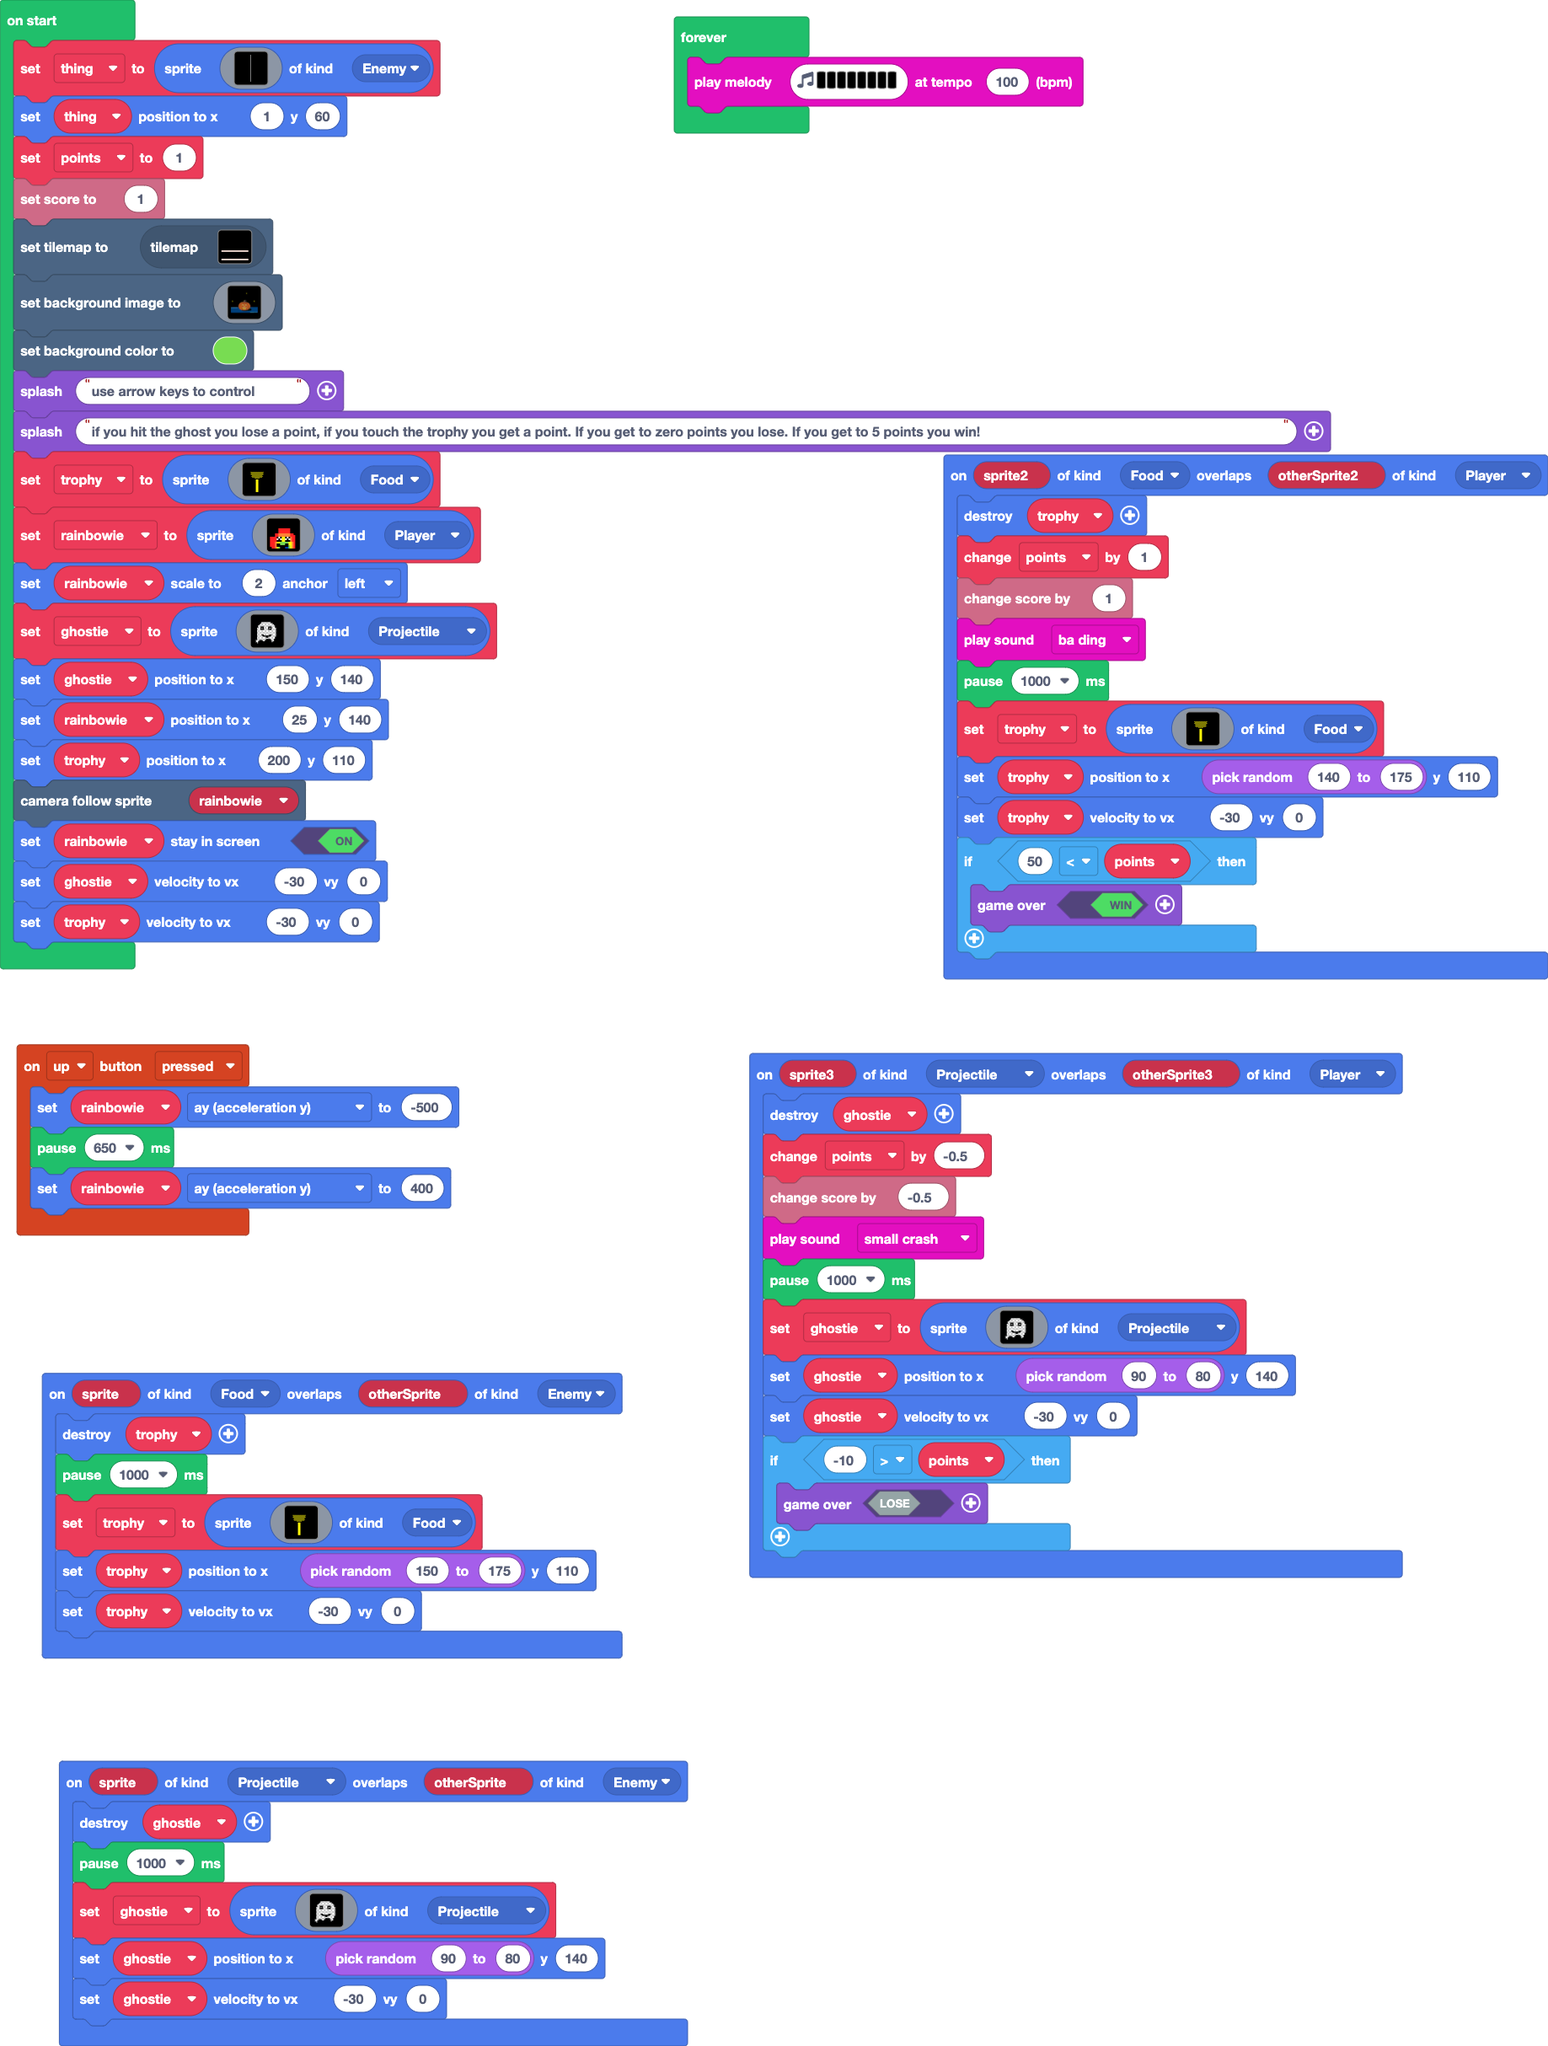
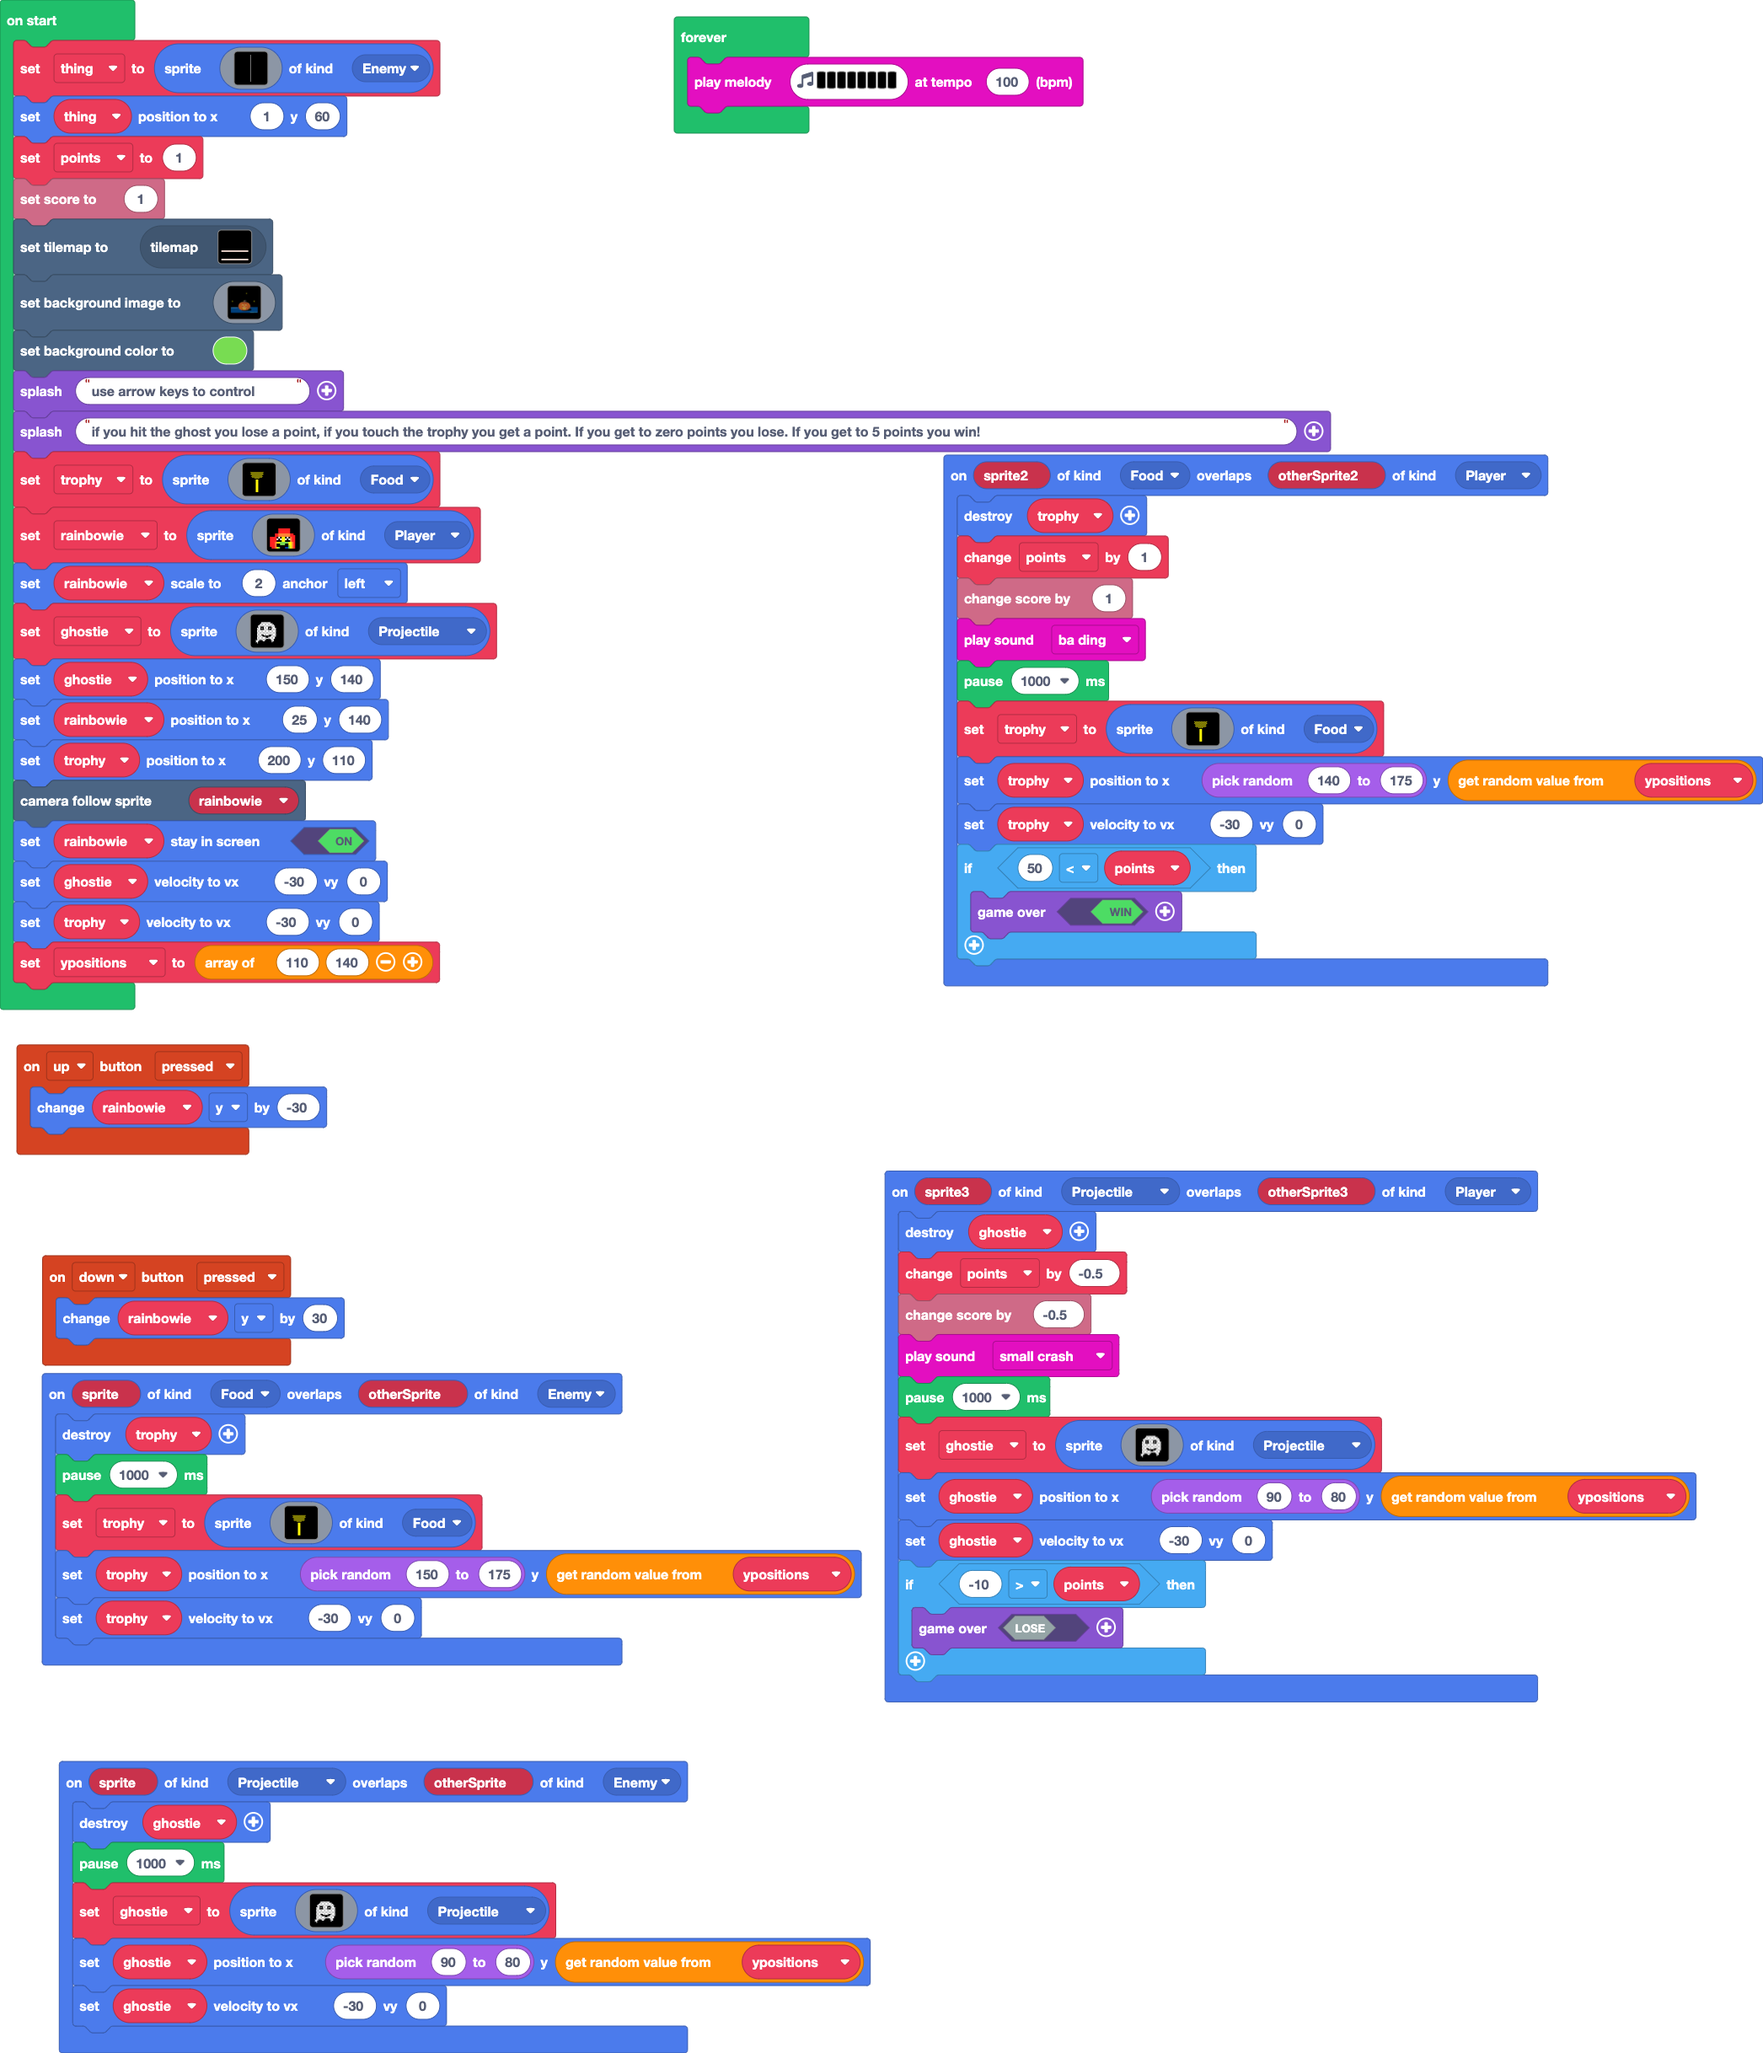
Update main.blocks, main.ts, tilemap.g.jres, tilemap.g.ts

Changed region(s): [[0.0, 0.0, 1.0, 1.0], [0.3723, 0.0, 0.7137, 0.0927]]

diff --git a/tilemap.g.ts b/tilemap.g.ts
@@ -157,6 +157,44 @@ namespace myTiles {
 . . . . . . . . . . . . . . . . 
 2 2 2 2 2 2 2 2 2 2 2 2 2 2 2 2 
 `, [myTiles.transparency16,sprites.castle.tilePath5], TileScale.Sixteen);
+            case "level9":
+            case "level9":return tiles.createTilemap(hex`1000100000000000000000000000000000000000000000000000000000000000000000000000000000000000000000000000000000000000000000000000000000000000000000000000000000000000000000000000000000000000000000000000000000000000000000000000000000000000000000000000000000000000000000000000000000000000000000000000000000000000000000000000000000000000000000000000000000000000000000000000000000000000000000000000000000000000000000000000000000000000000000000000000000000000000000000000000000000000000000000000000000000000000000000000000000000000`, img`
+. . . . . . . . . . . . . . . . 
+. . . . . . . . . . . . . . . . 
+. . . . . . . . . . . . . . . . 
+. . . . . . . . . . . . . . . . 
+. . . . . . . . . . . . . . . . 
+. . . . . . . . . . . . . . . . 
+. . . . . . . . . . . . . . . . 
+. . . . . . . . . . . . . . . . 
+. . . . . . . . . . . . . . . . 
+. . . . . . . . . . . . . . . . 
+. . . . . . . . . . . . . . . . 
+. . . . . . . . . . . . . . . . 
+. . . . . . . . . . . . . . . . 
+. . . . . . . . . . . . . . . . 
+. . . . . . . . . . . . . . . . 
+. . . . . . . . . . . . . . . . 
+`, [myTiles.transparency16], TileScale.Sixteen);
+            case "level10":
+            case "level10":return tiles.createTilemap(hex`1000100000000000000000000000000000000000000000000000000000000000000000000000000000000000000000000000000000000000000000000000000000000000000000000000000000000000000000000000000000000000000000000000000000000000000000000000000000000000000000000000000000000000000000000000000000000000000000000000000000000000000000000000000000000000000000000000000000000000000000000000000000000000000000000000000000000000000000000000000000000000000000000000000000000000000000000000000000000000000000000000000000000000000000000000000000000000`, img`
+. . . . . . . . . . . . . . . . 
+. . . . . . . . . . . . . . . . 
+. . . . . . . . . . . . . . . . 
+. . . . . . . . . . . . . . . . 
+. . . . . . . . . . . . . . . . 
+. . . . . . . . . . . . . . . . 
+. . . . . . . . . . . . . . . . 
+. . . . . . . . . . . . . . . . 
+. . . . . . . . . . . . . . . . 
+. . . . . . . . . . . . . . . . 
+. . . . . . . . . . . . . . . . 
+. . . . . . . . . . . . . . . . 
+. . . . . . . . . . . . . . . . 
+. . . . . . . . . . . . . . . . 
+. . . . . . . . . . . . . . . . 
+. . . . . . . . . . . . . . . . 
+`, [myTiles.transparency16], TileScale.Sixteen);
         }
         return null;
     })

diff --git a/main.ts b/main.ts
@@ -1,7 +1,5 @@
 controller.up.onEvent(ControllerButtonEvent.Pressed, function () {
-    rainbowie.ay = -500
-    pause(650)
-    rainbowie.ay = 400
+    rainbowie.y += -30
 })
 sprites.onOverlap(SpriteKind.Food, SpriteKind.Enemy, function (sprite, otherSprite) {
     trophy.destroy()
@@ -40,7 +38,7 @@ sprites.onOverlap(SpriteKind.Food, SpriteKind.Enemy, function (sprite, otherSpri
         ...........f555f................
         ...........fffff................
         `, SpriteKind.Food)
-    trophy.setPosition(randint(150, 175), 110)
+    trophy.setPosition(randint(150, 175), ypositions._pickRandom())
     trophy.setVelocity(-30, 0)
 })
 sprites.onOverlap(SpriteKind.Food, SpriteKind.Player, function (sprite2, otherSprite2) {
@@ -83,7 +81,7 @@ sprites.onOverlap(SpriteKind.Food, SpriteKind.Player, function (sprite2, otherSp
         ...........f555f................
         ...........fffff................
         `, SpriteKind.Food)
-    trophy.setPosition(randint(140, 175), 110)
+    trophy.setPosition(randint(140, 175), ypositions._pickRandom())
     trophy.setVelocity(-30, 0)
     if (50 < points) {
         game.over(true)
@@ -96,19 +94,23 @@ sprites.onOverlap(SpriteKind.Projectile, SpriteKind.Player, function (sprite3, o
     music.smallCrash.play()
     pause(1000)
     ghostie = sprites.create(assets.image`Ghost S`, SpriteKind.Projectile)
-    ghostie.setPosition(randint(90, 80), 140)
+    ghostie.setPosition(randint(90, 80), ypositions._pickRandom())
     ghostie.setVelocity(-30, 0)
     if (-10 > points) {
         game.over(false)
     }
 })
+controller.down.onEvent(ControllerButtonEvent.Pressed, function () {
+    rainbowie.y += 30
+})
 sprites.onOverlap(SpriteKind.Projectile, SpriteKind.Enemy, function (sprite, otherSprite) {
     ghostie.destroy()
     pause(1000)
     ghostie = sprites.create(assets.image`Ghost S`, SpriteKind.Projectile)
-    ghostie.setPosition(randint(90, 80), 140)
+    ghostie.setPosition(randint(90, 80), ypositions._pickRandom())
     ghostie.setVelocity(-30, 0)
 })
+let ypositions: number[] = []
 let ghostie: Sprite = null
 let rainbowie: Sprite = null
 let trophy: Sprite = null
@@ -800,6 +802,7 @@ scene.cameraFollowSprite(rainbowie)
 rainbowie.setStayInScreen(true)
 ghostie.setVelocity(-30, 0)
 trophy.setVelocity(-30, 0)
+ypositions = [110, 140]
 forever(function () {
     music.playMelody("C E D - D - D - ", 100)
 })
